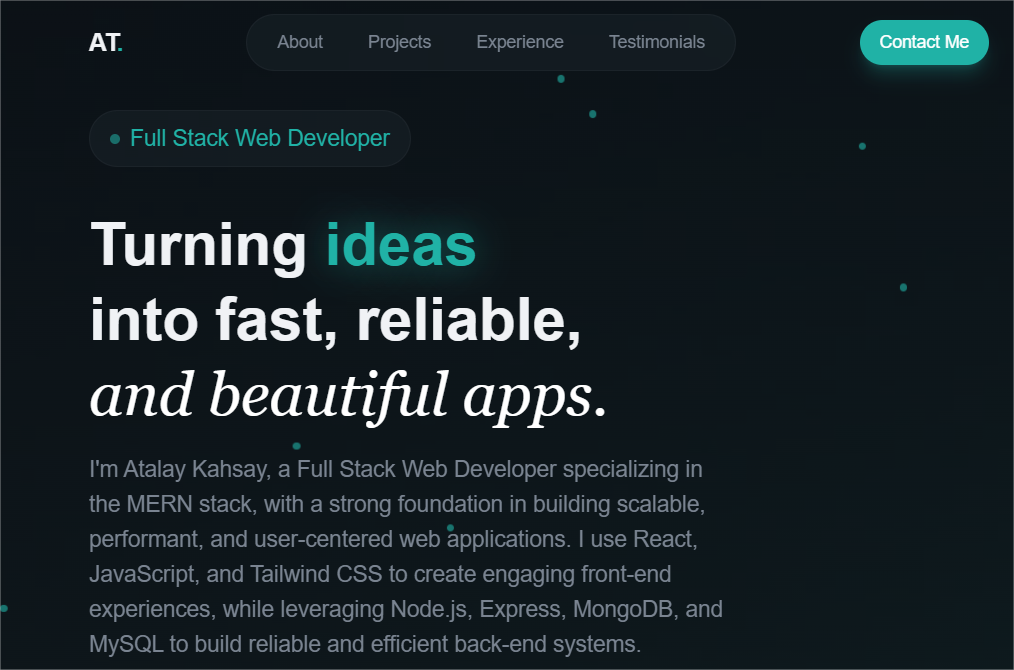
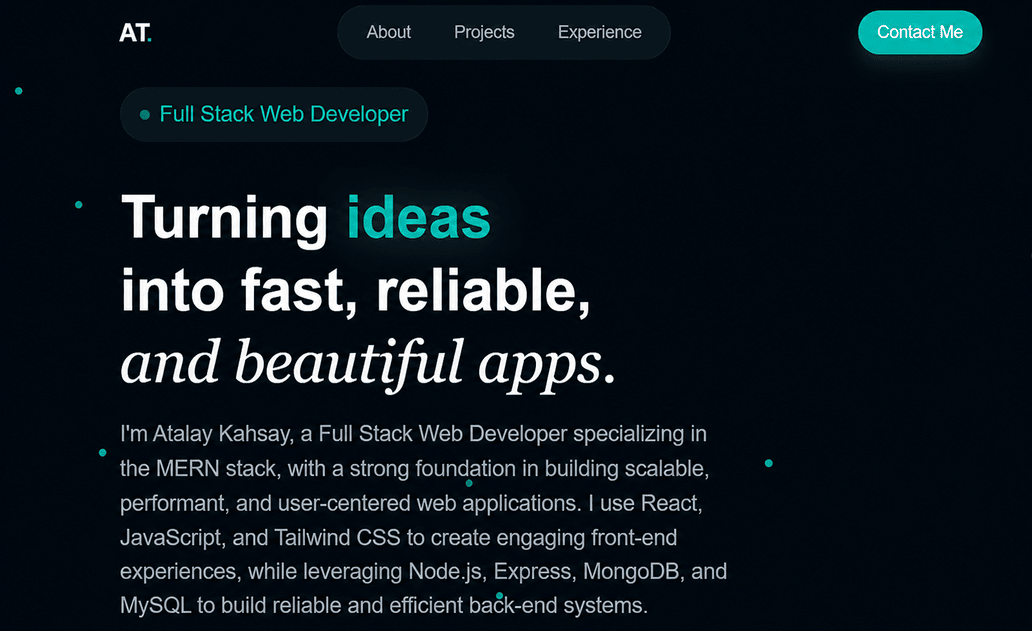
add experience section

diff --git a/src/sections/Experience.jsx b/src/sections/Experience.jsx
@@ -1,8 +1,109 @@
-import {} from 'react'
+const experiences = [
+  {
+    period: "May 2026 - Present",
+    role: "Full Stack Web Developer",
+    company: "Future Interns",
+    description: "Building and delivering full stack web projects as part of a structured internship program, covering front-end interfaces, REST APIs, and database integration.",
+    technologies: ["React", "Tailwind CSS", "JavaScript", "CSS"],
+    current: true,
+  },
+  {
+    period: "Feb 2026 - Present",
+    role: "Full Stack Developer",
+    company: "Self-Directed",
+    description: "Built a series of personal projects from front-end interfaces to full stack applications, integrating REST APIs and both relational and non-relational databases.",
+    technologies: ["React", "Node.js", "Express", "MySQL", "MongoDB", "JavaScript"],
+    current: true,
+  }
+];
 
 function Experience() {
   return (
-    <section></section>
+    <section id="experience" className="py-24 relative overflow-hidden">
+      <div
+        className="absolute top-1/2 left-1/4 w-96
+       h-96 bg-primary/5 rounded-full blur-3xl -translate-y-1/2"
+      />
+
+      <div className="container mx-auto px-6 relative z-10">
+        <div className="max-w-3xl mb-16">
+          <span 
+            className="text-secondary-foreground text-sm font-medium tracking-wider uppercase animate-fade-in"
+          >
+            Career Journey
+          </span>
+          <h2 className="text-4xl md:text-5xl font-bold mt-4 mb-6 animate-fade-in animation-delay-100 text-secondary-foreground">
+            Experience that 
+            <span className="font-serif italic font-normal text-white">
+              {" "}
+              shapes growth.
+            </span>
+          </h2>
+
+          <p
+            className="text-muted-foreground
+           animate-fade-in animation-delay-200"
+          >
+            A timeline of my development journey — from self-directed learning to delivering full stack projects through a structured internship program.
+          </p>
+        </div>
+
+        <div className="relative">
+          <div className="timeline-glow absolute left-0 md:left-1/2 top-0 bottom-0 w-0.5 bg-linear-to-b from-primary/70 via-primary/30 to-transparent md:-translate-x-1/2 shadow-[0_0_25px_rgba(32,178,166,0.8)]" />
+
+          <div className="space-y-12">
+            {experiences.map((exp, idx) => (
+              <div 
+                key={idx} 
+                className="relative grid md:grid-cols-2 gap-8 animate-fade-in"
+                style={{ animationDelay: `${(idx + 1) * 150}ms` }}
+              >
+
+                <div className="absolute left-0 md:left-1/2 top-0 w-3 h-3 bg-primary rounded-full -translate-x-1/2 ring-4 ring-background z-10">
+                  {exp.current && <span className="absolute inset-0 rounded-full bg-primary animate-ping opacity-75" />}
+                </div>
+
+                <div 
+                  className={`pl-8 md:pl-0 ${
+                    idx % 2 === 0 
+                      ? "md:pr-16 md:text-right" 
+                      : "md:col-start-2 md:pl-16"
+                  }`}
+                >
+                  <div className={`glass p-6 rounded-2xl border border-primary/30 hover:border-primary/60 transition-all duration-500`}>
+                    <span className="text-sm text-primary font-medium">
+                      {exp.period}
+                    </span>
+                    <h3 className="text-xl font-semibold mt-2">
+                      {exp.role}
+                    </h3>
+                    <p className="text-muted-foreground">{exp.company}</p>
+                    <p className="text-sm text-muted-foreground mt-4">
+                      {exp.description}
+                    </p>
+                    <div 
+                      className={`flex flex-wrap gap-2 mt-4 ${
+                        idx % 2 === 0 
+                          ? "md:justify-end" : ""
+                          }`}
+                    >
+                      {exp.technologies.map((tech, techIdx) => (
+                        <span 
+                          key={techIdx} 
+                          className="px-3 py-1 bg-surface text-xs rounded-full text-muted-foreground"
+                        >
+                          {tech}
+                        </span>
+                      ))}
+                    </div>
+                  </div>
+                </div>
+              </div>
+            ))}
+          </div>
+        </div>
+      </div>
+    </section>
   )
 }
 

diff --git a/src/sections/Projects.jsx b/src/sections/Projects.jsx
@@ -7,25 +7,25 @@ const projects = [
     title: "Apple Clone",
     description: "A responsive clone of Apple's website with product showcases and a dynamic video section powered by the YouTube Data API.",
     image: "/projects/apple-clone.png",
-    tags: ["React", "CSS", "JavaScript", "YouTube API", "Responsive Design"],
+    tags: ["React", "CSS", "JavaScript", "YouTube API"],
     link: "#",
-    github: "https://github.com/AtalayKahsay/apple_project"
+    github: "https://github.com/AtalayKahsay/apple_project",
   },
   {
   title: "Golden Fork Restaurant",
   description: "A fine dining restaurant website with a dynamic photo gallery, email newsletter subscription, and an immersive dark UI with gold accents.",
   image: "/projects/golden-fork.png",
-  tags: ["React", "CSS", "JavaScript", "Vite"],
+  tags: ["React", "CSS", "JavaScript"],
   link: "#",
-  github: "https://github.com/AtalayKahsay/FUTURE_FS_03"
+  github: "https://github.com/AtalayKahsay/FUTURE_FS_03",
 },
   {
     title: "Personal Portfolio",
     description: "A modern developer portfolio with smooth animations, a glass-effect UI, and a clean layout to showcase skills and projects.",
     image: "/projects/atalay-portfolio.png",
-    tags: ["React", "Tailwind CSS", "JavaScript", "Responsive Design"],
+    tags: ["React", "Tailwind CSS", "JavaScript"],
     link: "#",
-    github: "https://github.com/AtalayKahsay/FUTURE_FS_01"
+    github: "https://github.com/AtalayKahsay/FUTURE_FS_01",
   }
 ];
 
@@ -110,6 +110,7 @@ function Projects() {
                 <p className="text-muted-foreground text-sm">
                   {project.description}
                 </p>
+                
                 <div className="flex flex-wrap gap-2">
                   {project.tags.map((tag, tagIdx) => (
                     <span 

diff --git a/src/App.jsx b/src/App.jsx
@@ -1,6 +1,6 @@
 import { useState } from 'react'
 
-import {Hero, About, Projects, Experience, Testimonials, Contact} from '@/sections';
+import {Hero, About, Projects, Experience, Contact} from '@/sections';
 import { Navbar } from '@/layouts';
 
 function App() {
@@ -13,7 +13,6 @@ function App() {
         <About />
         <Projects />
         <Experience />
-        <Testimonials />
         <Contact />
       </main>
     </div>

diff --git a/src/index.css b/src/index.css
@@ -174,4 +174,10 @@
     backdrop-filter: blur(16px);
     box-shadow: 0 0 20px color-mix(in srgb, #26c4b8 20%, transparent);
   }
+
+  .timeline-glow {
+    box-shadow: 0 0 40px
+        color-mix(in srgb, var(--color-primary) 35%, transparent),
+      0 0 80px color-mix(in srgb, var(--color-primary) 25%, transparent);
+  }
 }

diff --git a/src/sections/index.jsx b/src/sections/index.jsx
@@ -2,5 +2,4 @@ export { default as Hero } from "./Hero";
 export { default as About } from "./About";
 export { default as Projects } from "./Projects";
 export { default as Experience } from "./Experience";
-export { default as Testimonials } from "./Testimonials";
 export { default as Contact } from "./Contact";

diff --git a/src/layouts/Navbar.jsx b/src/layouts/Navbar.jsx
@@ -6,7 +6,6 @@ const navLinks = [
   { href: "#about", label: "About" },
   { href: "#projects", label: "Projects" },
   { href: "#experience", label: "Experience" },
-  { href: "#testimonials", label: "Testimonials" },
 ];
 
 
